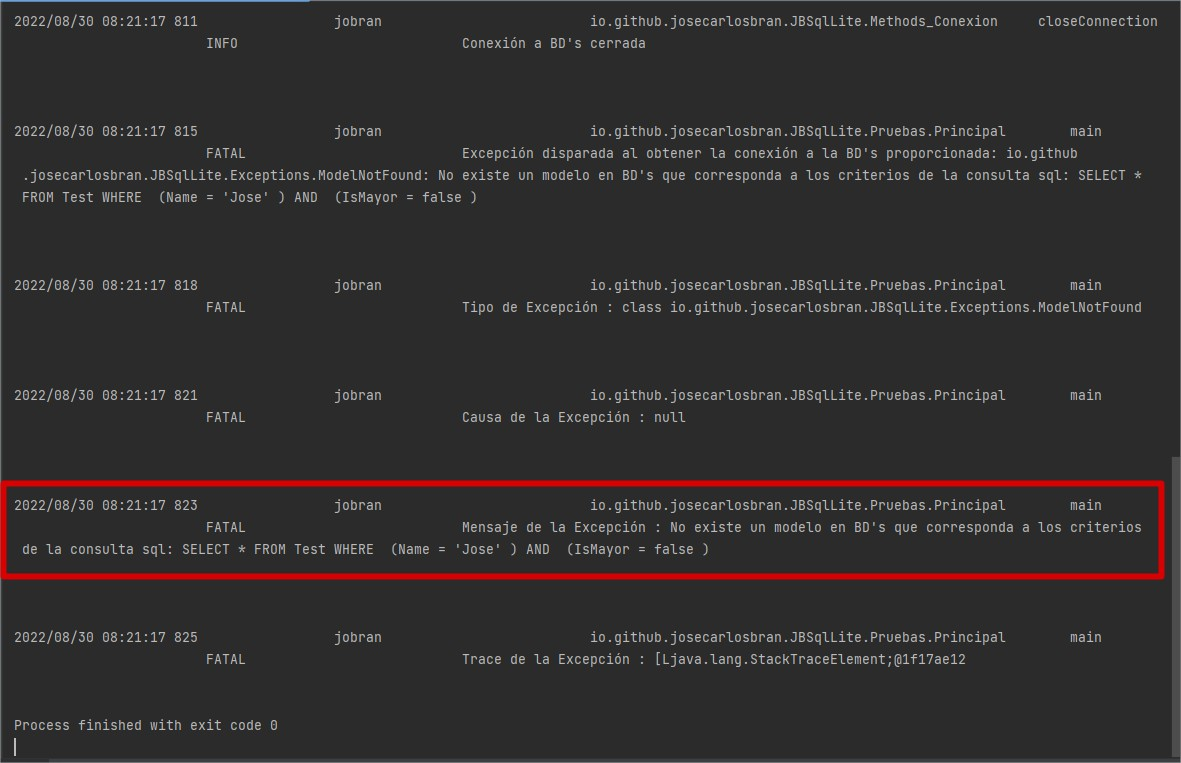
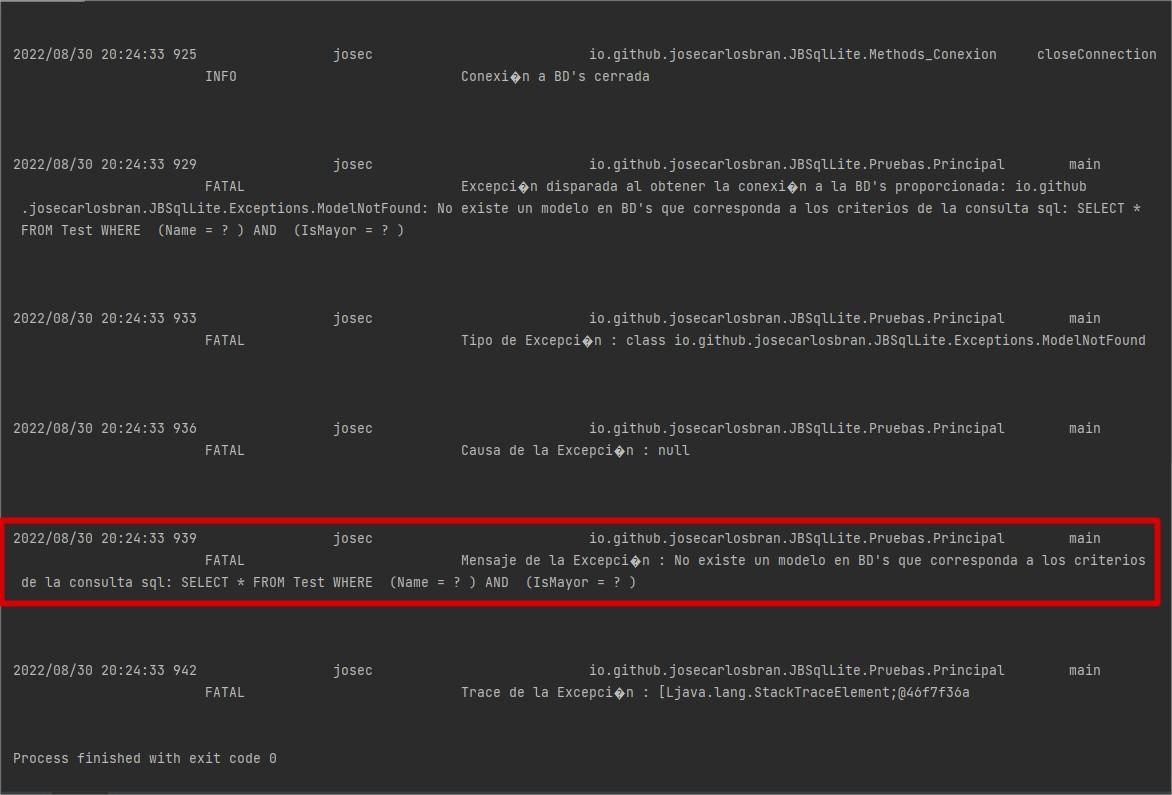
Adecuación utilidades a prepared statement

diff --git a/src/main/java/io/github/josecarlosbran/JBSqlLite/Pruebas/Principal.java b/src/main/java/io/github/josecarlosbran/JBSqlLite/Pruebas/Principal.java
@@ -128,8 +128,8 @@ public class Principal {
          * el cual se encarga de insertar un registro en la tabla correspondiente al modelo con la información del mismo
          * si este no existe, de existir actualiza el registro por medio de la clave primaria del modelo.
          */
-        /*test.getName().setValor("Jose");
-        test.getApellido().setValor("Bran");*/
+        /*test.getName().setValor("Marcos");
+        test.getApellido().setValor("Cabrera");*/
         //test.getIsMayor().setValor(false);
         /**
          * En este primer ejemplo no seteamos un valor a la columna IsMayor, para comprobar que el valor
@@ -159,8 +159,8 @@ public class Principal {
          * Una vez hemos comprobado que el modelo no esta escribiendo u obteniendo información en segundo plano
          * podemos utilizarlo, para insertar otro registro totalmente diferente al que insertamos anteriormente.
          */
-        /*test.getName().setValor("Daniel");
-        test.getApellido().setValor("Quiñonez");
+        /*test.getName().setValor("Elsa");
+        test.getApellido().setValor("Aguirre");
         test.getIsMayor().setValor(false);*/
 
         /**
@@ -176,24 +176,17 @@ public class Principal {
         //test.save();
 
 
-        Consumer<Test> showFilas = fila -> {
-/*
-            String separador=System.getProperty("file.separator");
-            String BDSqlite = (Paths.get("").toAbsolutePath().normalize().toString() + separador +
-                    "BD" +
-                    separador +
-                    "JBSqlUtils.db");
-            fila.setGetPropertySystem(false);
-            fila.setBD(BDSqlite);
-            fila.setDataBaseType(DataBase.SQLite);
-            fila.setTableExist(false);
-            fila.getId().setValor(null);*/
-            fila.getIsMayor().setValor(!fila.getIsMayor().getValor());
-            LogsJB.info(fila.getId().getValor()+"   "+fila.getName().getValor()+"   "+fila.getApellido().getValor()+"   "+fila.getIsMayor().getValor()+"   "+fila.getCreated_at().getValor()+"   "+fila.getUpdated_at().getValor());
-        };
-
+        /**
+         * Declaramos una lista de modelos del tipo Test, en la cual almacenaremos la información obtenida de BD's'
+         */
         List<Test> lista=new ArrayList<>();
-        //lista=test.where("id", Operator.MAYOR_QUE, "0").getAll();
+
+        /**
+         * Obtenemos todos los registros cuyos Id son mayores a 2, el metodo take(Cantidad).get();
+         * Obtiene una lista de modelos que coinciden con la búsqueda realizada por medio de la consulta SQL
+         * limitada a la cantidad de registros especificados en el método take().
+         */
+        lista=test.where("id", Operator.MAYOR_QUE, 2).take(2).get();
         //lista=test.where("id", Operator.MAYOR_QUE, "0").take(10).get();
 
 
@@ -211,7 +204,7 @@ public class Principal {
          * where() el cual nos proporciona un punto de entrada para otros métodos, por medio de los cuales podemos
          * brindar una lógica un poco más compleja a la busqueda del registro que deseamos obtener.
          */
-        Test test2= (Test) test.where("IsMayor", Operator.IGUAL_QUE, false).firstOrFail();
+        //Test test2= (Test) test.where("Name", Operator.IGUAL_QUE, "Jose").and("IsMayor", Operator.IGUAL_QUE, false).firstOrFail();
 
 
         /**
@@ -223,16 +216,41 @@ public class Principal {
         /**
          * Mostramos la información obtenida
          */
-        LogsJB.info(test2.getId().getValor()+"   "+test2.getName().getValor()+"   "+test2.getApellido().getValor()
+        /*LogsJB.info(test2.getId().getValor()+"   "+test2.getName().getValor()+"   "+test2.getApellido().getValor()
                 +"   "+test2.getIsMayor().getValor()+"   "+test2.getCreated_at().getValor()+"   "+test2.getUpdated_at().getValor());
 
-        test2.getIsMayor().setValor(true);
+        test2.getIsMayor().setValor(true);*/
         //test2.save();
         //test.getIsMayor().setValor(!test.getIsMayor().getValor());
 
         //LogsJB.info("Cantidad de resultado lista: "+lista.size());
 
-        //lista.forEach(showFilas);
+        /**
+         * Declaramos una función anonima que recibira como parametro un obtjeto del tipo Test
+         * el cual es el tipo de modelo que obtendremos y dentro de esta función imprimiremos
+         * la información del modelo.
+         */
+        Consumer<Test> showFilas = fila -> {
+/*
+            String separador=System.getProperty("file.separator");
+            String BDSqlite = (Paths.get("").toAbsolutePath().normalize().toString() + separador +
+                    "BD" +
+                    separador +
+                    "JBSqlUtils.db");
+            fila.setGetPropertySystem(false);
+            fila.setBD(BDSqlite);
+            fila.setDataBaseType(DataBase.SQLite);
+            fila.setTableExist(false);
+            fila.getId().setValor(null);
+            fila.getIsMayor().setValor(!fila.getIsMayor().getValor());*/
+            LogsJB.info(fila.getId().getValor()+"   "+fila.getName().getValor()+"   "+fila.getApellido().getValor()+"   "+fila.getIsMayor().getValor()+"   "+fila.getCreated_at().getValor()+"   "+fila.getUpdated_at().getValor());
+        };
+
+        /**
+         * Mostramos la información obtenida iterando sobre los modelos obtenidos de BD's y mostrando
+         * su contenido por medio de la función anonima que declaramos ateriormente.
+         */
+        lista.forEach(showFilas);
 
 
         //test.saveALL(lista);
@@ -566,7 +584,7 @@ public class Principal {
          * where() el cual nos proporciona un punto de entrada para otros métodos, por medio de los cuales podemos
          * brindar una lógica un poco más compleja a la busqueda del registro que deseamos obtener.
          */
-        Test test2= (Test) test.where("isMayor", Operator.IGUAL_QUE, "0").firstOrFail();
+        Test test2= (Test) test.where("name", Operator.LIKE, "Jos%").and("apellido", Operator.IGUAL_QUE, "Bran").first();
 
         /**
          * Esperamos a que el modelo termine de obtener la información de BD's

diff --git a/Readme.md b/Readme.md
@@ -157,7 +157,7 @@ int rows_afected=update("Test").set("name", "Jose Carlos").execute();
  * llamado al método execute el cual se encarga de ejecutar la sentencia SQL generada y retorna el numero de filas
  * afectadas.
  */
-rows_afected=update("Test").set("name", "Jose Carlos").where("Id", Operator.MAYOR_QUE, "2").and("apellido", Operator.LIKE, "Bran%").execute();
+rows_afected=update("Test").set("name", "Jose Carlos").where("Id", Operator.MAYOR_QUE, 2).and("apellido", Operator.LIKE, "Bran%").execute();
 
 
 /**
@@ -166,7 +166,7 @@ rows_afected=update("Test").set("name", "Jose Carlos").where("Id", Operator.MAYO
  * where por medio del cual podemos filtrar las filas que se veran afectadas al llamar al método execute, el cual
  * se encargara de ejecutar la sentencia SQL generada y retorna el numero de filas afectadas.
  */
-rows_afected=update("Test").set("name", "Jose Carlos").andSet("IsMayor", "true").execute();
+rows_afected=update("Test").set("name", "Jose Carlos").andSet("IsMayor", true).execute();
 
 ~~~
 
@@ -187,7 +187,7 @@ filas afectadas por la ejecución de la sentencia SQL.
  * llamado al método execute el cual se encarga de ejecutar la sentencia SQL generada y retorna el numero de filas
  * afectadas.
  */
-int rows_afected=delete("Test").where("Id", Operator.MAYOR_IGUAL_QUE, "2").execute();
+int rows_afected=delete("Test").where("Id", Operator.MAYOR_IGUAL_QUE, 2).execute();
 
 ~~~
 
@@ -249,7 +249,7 @@ public class Test extends JBSqlUtils {
      * el único parametro obligatorio es el DataType de la columna en BD's.
      *
      * Por convención el nombre de cada miembro correspondiente a una columna en BD's debe tener el mismo
-     * nombre que la columna en BD's. y estos deben tener sus respectivos metodos set an get, teniendo estos
+     * nombre que la columna en BD's. y estos deben tener sus respectivos métodos set an get, teniendo estos
      * por convención el nombre setColumnName, getColumName.
      *
      * Por ejemplo, para la columna Id = El miembro del modelo será Id, JBSqlUtils no es case sensitive,
@@ -306,7 +306,7 @@ public class Test extends JBSqlUtils {
      * BIT.
      *
      * En este ejemplo seteamos 'true' como default_value, debido a que este modelo se conectara a un SQLServer,
-     * en PostgreSQL la sintaxis es true. Por lo cual es importante tener claro la sintaxis de la BD's a la cual
+     * en PostgreSQL y SQLite la sintaxis es true. Por lo cual es importante tener claro la sintaxis de la BD's a la cual
      * se estará conectando el modelo.
      *
      * Agregamos una restriccion SQL las cuales serán útiles si deseamos utilizar el modelo para crear la tabla en BD's
@@ -500,7 +500,7 @@ test.save();
 
 ## ¿Cómo obtener un registro de BD's?
 
-Para obtener un registro de BD's JBSqlUtils proporciona diferentes metodos los cuales veremos a continuación.
+Para obtener un registro de BD's JBSqlUtils proporciona diferentes métodos los cuales veremos a continuación.
 
 ### Obtener el registro en el modelo que realiza la búsqueda.
 
@@ -510,11 +510,11 @@ Para obtener un registro de BD's JBSqlUtils proporciona diferentes metodos los c
 * Podemos obtener un registro de la tabla correspondiente al modelo en BD's a través del método get()
 * el cual llena el modelo que realiza la invocación del método con la información obtenida.
 *
-* Para poder filtrar la búsqueda y tener acceso al método get(), es necesario que llamemos al metodo
-* where() el cual nos proporciona un punto de entrada para otros metodos, por medio de los cuales podemos
+* Para poder filtrar la búsqueda y tener acceso al método get(), es necesario que llamemos al método
+* where() el cual nos proporciona un punto de entrada para otros métodos, por medio de los cuales podemos
 * brindar una lógica un poco más compleja a la búsqueda del registro que deseamos obtener.
 */
-test.where("name", Operator.LIKE, "'Jos%'").and("apellido", Operator.IGUAL_QUE, "'Bran'").get();
+test.where("name", Operator.LIKE, "Jos%").and("apellido", Operator.IGUAL_QUE, "Bran").get();
 
 /**
 * Esperamos a que el modelo termine de obtener la información de BD's
@@ -548,7 +548,7 @@ LogsJB.info(test.getId().getValor()+"   "+test.getName().getValor()+"   "+test.g
 * where() el cual nos proporciona un punto de entrada para otros métodos, por medio de los cuales podemos
 * brindar una lógica un poco más compleja a la búsqueda del registro que deseamos obtener.
 */
-Test test2= (Test) test.where("isMayor", Operator.IGUAL_QUE, "0").first();
+Test test2= (Test) test.where("isMayor", Operator.IGUAL_QUE, false).first();
 
 /**
 * Esperamos a que el modelo termine de obtener la información de BD's
@@ -594,7 +594,7 @@ de no encontrar el registro para el modelo.
 * where() el cual nos proporciona un punto de entrada para otros métodos, por medio de los cuales podemos
 * brindar una lógica un poco más compleja a la busqueda del registro que deseamos obtener.
 */
-Test test2= (Test) test.where("Name", Operator.IGUAL_QUE, "'Jose'").firstOrFail();
+Test test2= (Test) test.where("Name", Operator.IGUAL_QUE, "Jose").firstOrFail();
 
 /**
 * Esperamos a que el modelo termine de obtener la información de BD's
@@ -612,9 +612,11 @@ LogsJB.info(test2.getId().getValor()+"   "+test2.getName().getValor()+"   "+test
 ~~~
 
 Información en BD's SQLite
+
 ![](Imagenes/firstorfail.jpg)
 
 Información obtenida por el modelo
+
 ![](Imagenes/firstorfail1.jpg)
 
 
@@ -634,7 +636,7 @@ Información obtenida por el modelo
 * where() el cual nos proporciona un punto de entrada para otros métodos, por medio de los cuales podemos
 * brindar una lógica un poco más compleja a la busqueda del registro que deseamos obtener.
 */
-Test test2= (Test) test.where("Name", Operator.IGUAL_QUE, "'Jose'").and("IsMayor", Operator.IGUAL_QUE, "false").firstOrFail();
+Test test2= (Test) test.where("Name", Operator.IGUAL_QUE, "Jose").and("IsMayor", Operator.IGUAL_QUE, false).firstOrFail();
 
 
 /**
@@ -653,15 +655,130 @@ LogsJB.info(test2.getId().getValor()+"   "+test2.getName().getValor()+"   "+test
 ~~~
 
 Información en BD's SQLite
+
 ![](Imagenes/firstorfail.jpg)
 
 Excepción disparada, manejo la excepción para que me muestre la información y causa de la
 misma.
+
 ![](Imagenes/firstorfail2.jpg)
 
-
+* * *
 
 * * *
+
+
+## ¿Cómo obtener multiples registros de BD's?
+
+Podemos obtener multiples registros de BD's a través de los siguientes métodos
+
+- Método getALL()
+
+Obtiene una lista de modelos que coinciden con la búsqueda realizada por medio de la consulta SQL
+~~~
+
+        /**
+         * Declaramos una lista de modelos del tipo Test, en la cual almacenaremos la información obtenida de BD's'
+         */
+        List<Test> lista=new ArrayList<>();
+
+        /**
+         * Obtenemos todos los registros cuyos Id son mayores a 2, el método getALL()
+         * Obtiene una lista de modelos que coinciden con la busqueda realizada por medio de la consulta SQL
+         */
+        lista=test.where("id", Operator.MAYOR_QUE, 2).getAll();
+        
+        /**
+         * Esperamos a que el modelo termine de obtener la información de BD's
+         */
+        while (!test.getTaskIsReady()){
+
+        }
+        
+        /**
+         * Declaramos una función anonima que recibira como parametro un obtjeto del tipo Test
+         * el cual es el tipo de modelo que obtendremos y dentro de esta función imprimiremos
+         * la información del modelo.
+         */
+        Consumer<Test> showFilas = fila -> {
+            LogsJB.info(fila.getId().getValor()+"   "+fila.getName().getValor()+"   "+fila.getApellido().getValor()+"   "+fila.getIsMayor().getValor()+"   "+fila.getCreated_at().getValor()+"   "+fila.getUpdated_at().getValor());
+        };
+
+        /**
+         * Mostramos la información obtenida iterando sobre los modelos obtenidos de BD's y mostrando
+         * su contenido por medio de la función anonima que declaramos ateriormente.
+         */
+        lista.forEach(showFilas);
+
+
+
+~~~
+
+Información en BD's SQLite
+
+![](Imagenes/getall.jpg)
+
+Lista de modelos obtenidos de BD's
+
+![](Imagenes/getall1.jpg)
+
+Si deseamos limitar la cantidad de resultados, podemos hacerlo a través del método take(Cantidad).get()
+el cual retornara una lista de modelos coincidentes con la consulta SQL menor o igual a la cantidad especificada
+en el método take, ya que la cantidad de registros obtenidos, depende de los registros que coinciden en BD's
+
+- Método take()
+
+Obtiene una lista de modelos que coinciden con la búsqueda realizada por medio de la consulta SQL, limitada
+por la cantidad de registros especificados en el método take()
+~~~
+
+        /**
+         * Declaramos una lista de modelos del tipo Test, en la cual almacenaremos la información obtenida de BD's'
+         */
+        List<Test> lista=new ArrayList<>();
+
+        /**
+         * Obtenemos todos los registros cuyos Id son mayores a 2, el metodo take(Cantidad).get();
+         * Obtiene una lista de modelos que coinciden con la búsqueda realizada por medio de la consulta SQL
+         * limitada a la cantidad de registros especificados en el método take().
+         */
+        lista=test.where("id", Operator.MAYOR_QUE, 2).take(2).get();
+        
+        /**
+         * Esperamos a que el modelo termine de obtener la información de BD's
+         */
+        while (!test.getTaskIsReady()){
+
+        }
+        
+        /**
+         * Declaramos una función anonima que recibira como parametro un obtjeto del tipo Test
+         * el cual es el tipo de modelo que obtendremos y dentro de esta función imprimiremos
+         * la información del modelo.
+         */
+        Consumer<Test> showFilas = fila -> {
+            LogsJB.info(fila.getId().getValor()+"   "+fila.getName().getValor()+"   "+fila.getApellido().getValor()+"   "+fila.getIsMayor().getValor()+"   "+fila.getCreated_at().getValor()+"   "+fila.getUpdated_at().getValor());
+        };
+
+        /**
+         * Mostramos la información obtenida iterando sobre los modelos obtenidos de BD's y mostrando
+         * su contenido por medio de la función anonima que declaramos ateriormente.
+         */
+        lista.forEach(showFilas);
+
+
+
+~~~
+
+Información en BD's SQLite
+
+![](Imagenes/getall.jpg)
+
+Lista de modelos obtenidos de BD's
+
+![](Imagenes/take.jpg)
+
+
 
 
 * * *
